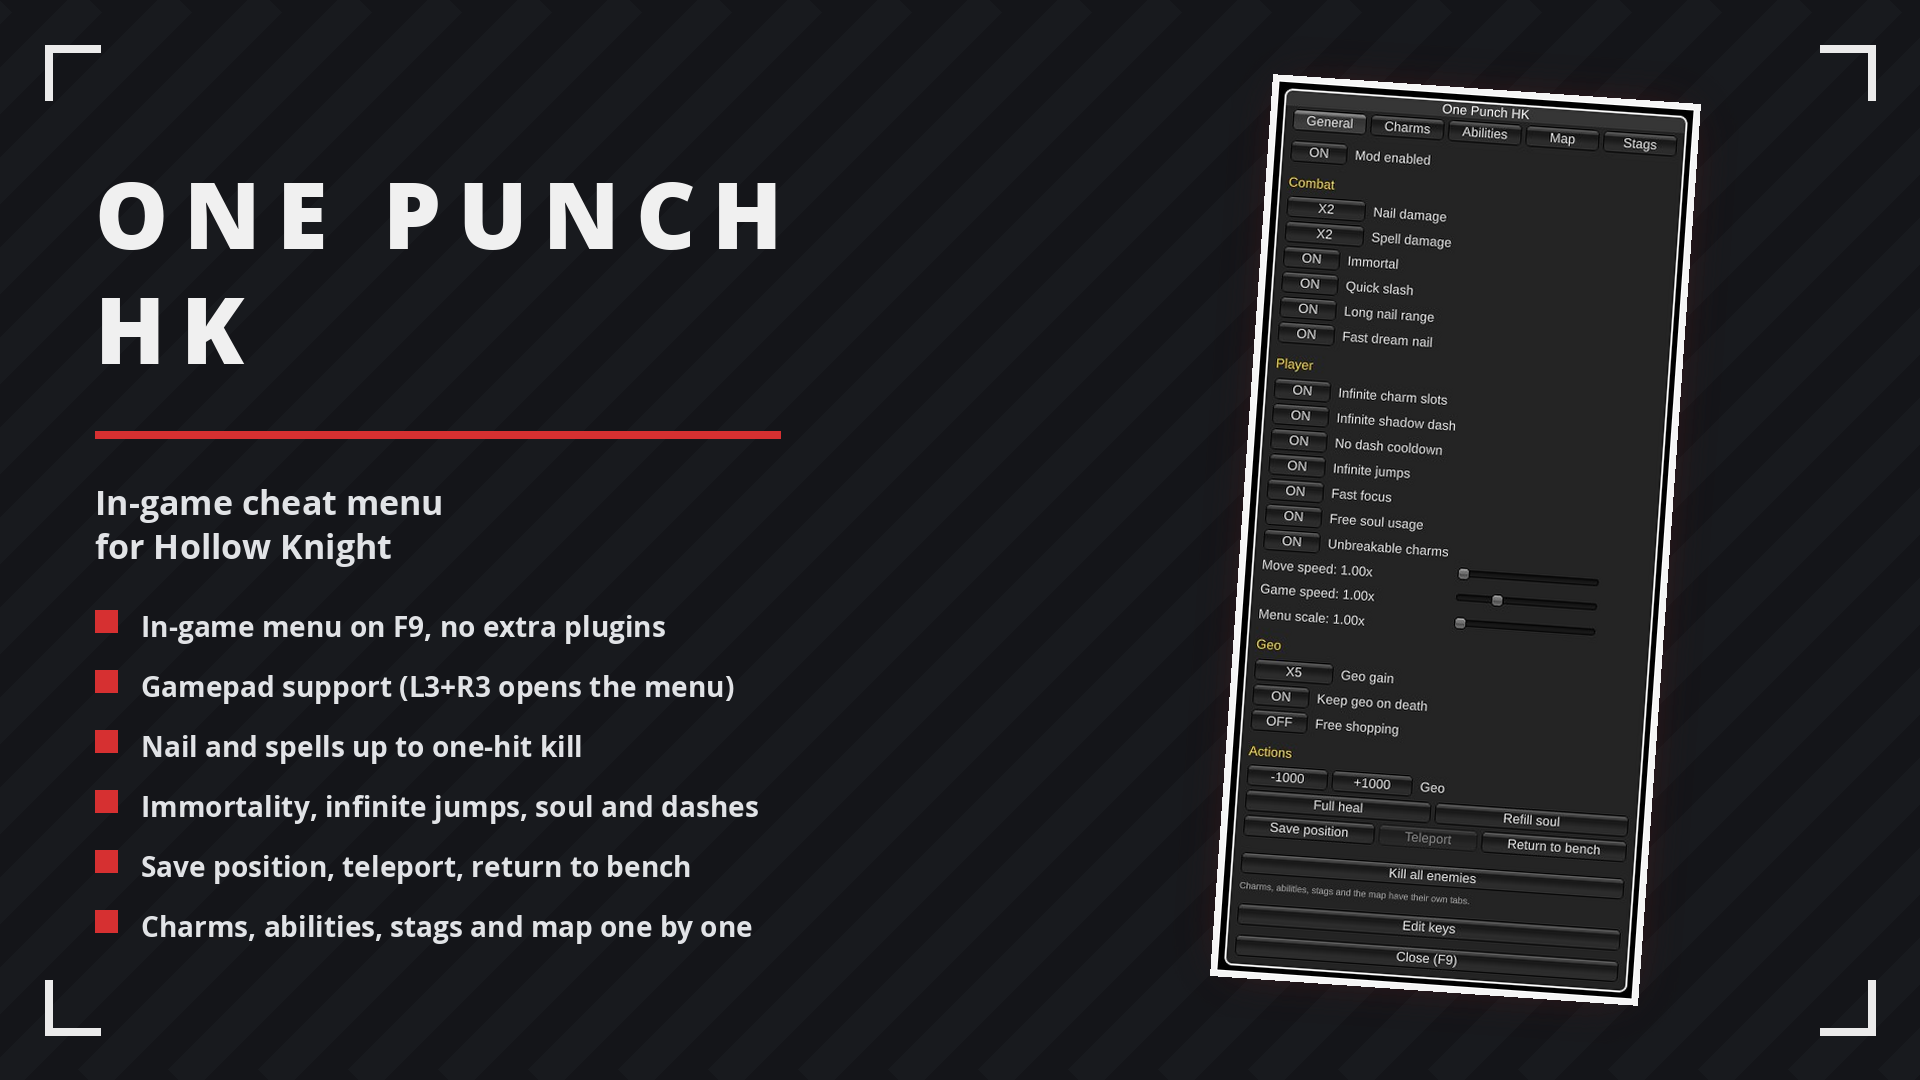
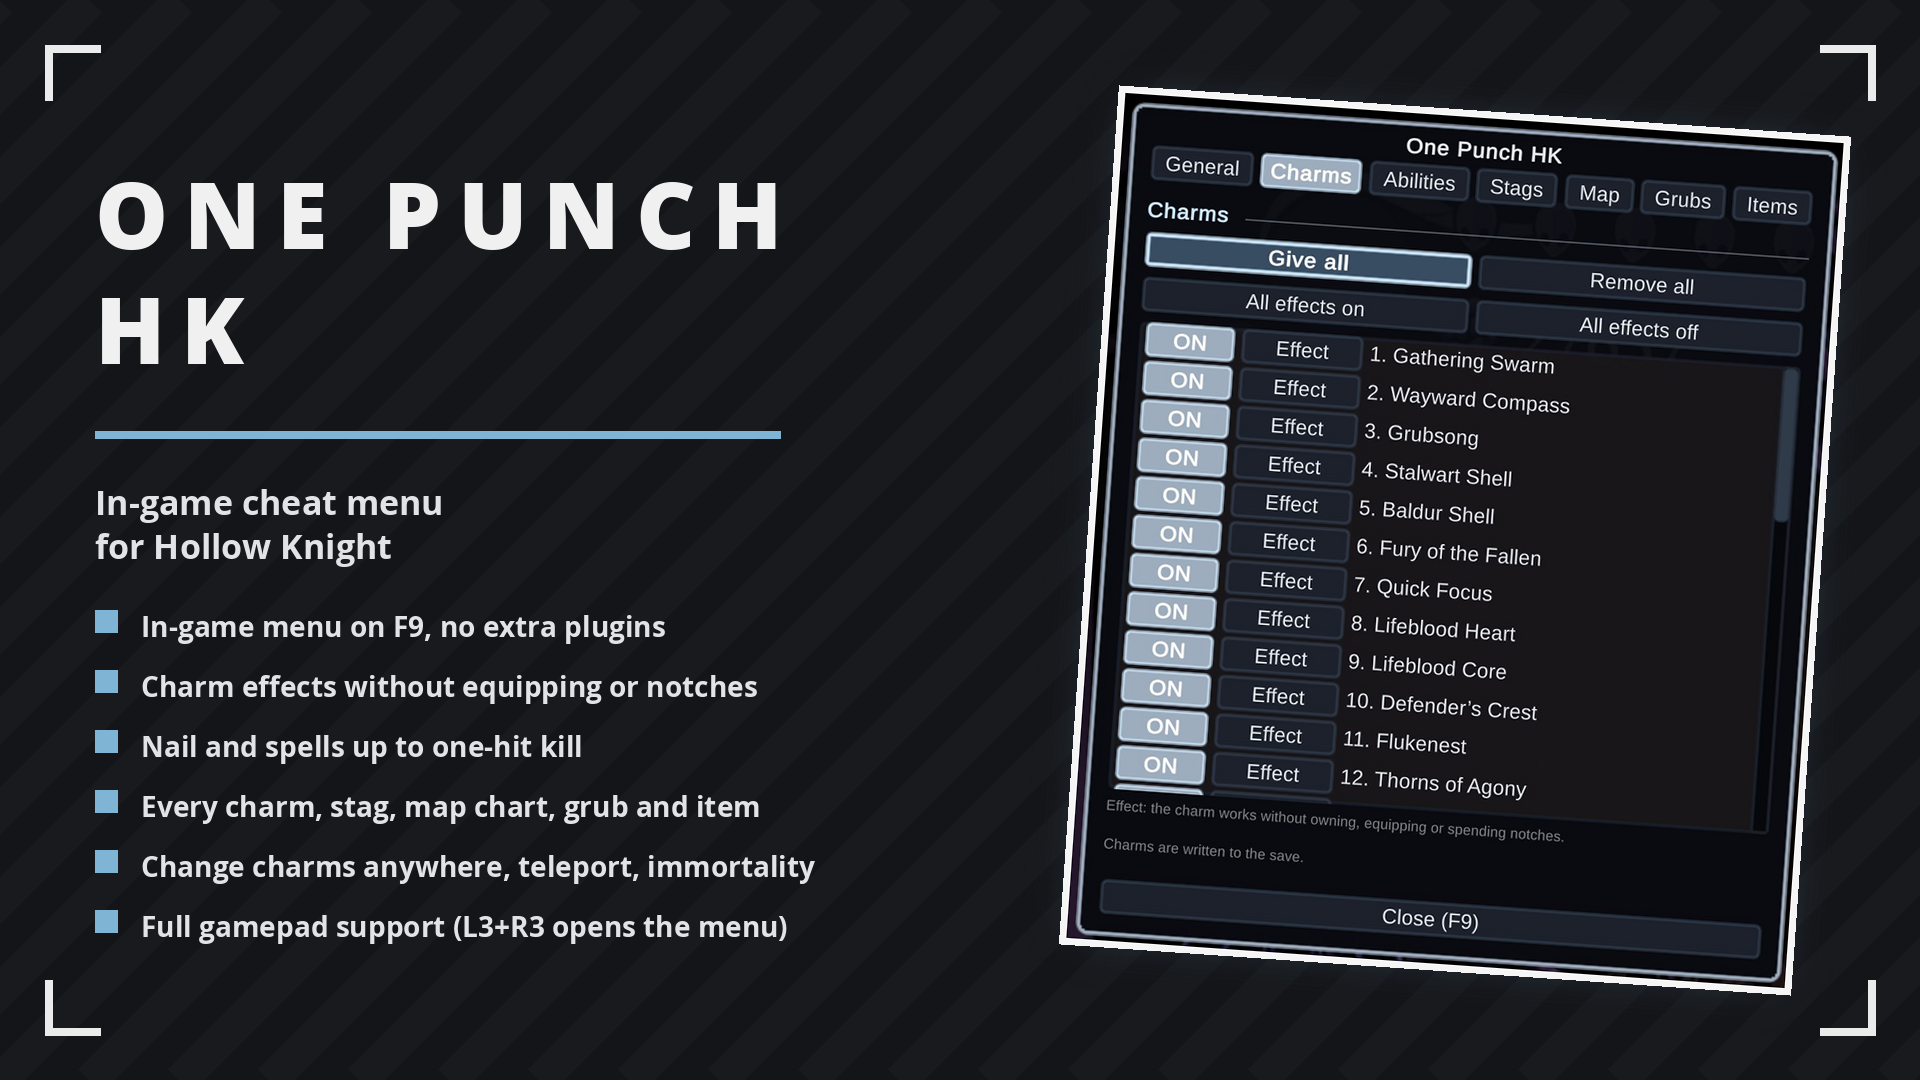
OnePunchHK 2.3.0: charm effects without equipping, new menu, grubs, items and map areas

diff --git a/Hollow Knight/OnePunchHK/README.md b/Hollow Knight/OnePunchHK/README.md
@@ -16,7 +16,10 @@ In-game cheat menu for Hollow Knight. Press F9 (or L3+R3 on a gamepad), toggle w
 - Geo multipliers, keep geo on death, free shopping, give geo
 - Full heal, refill soul, kill all enemies (with confirmation)
 - Save position, teleport back to it, return to the last bench
-- Tabs for charms, abilities, stags and map, every entry with its own switch
+- Charm effects without owning, equipping or notches (Effect switch per charm)
+- Change charms anywhere, no bench needed
+- Tabs for charms, abilities, stags, map, grubs and items, every entry with its own switch
+- Masks and soul vessels editors
 - Key rebinding inside the menu and a scale slider for big screens
 
 ## 🎮 Controls
@@ -30,11 +33,13 @@ In-game cheat menu for Hollow Knight. Press F9 (or L3+R3 on a gamepad), toggle w
 | LB / RB | change tab |
 
 ## 📸 Screenshots
-![menu](screenshots/01-menu.png)
-![charms](screenshots/02-charms.png)
-![abilities](screenshots/03-abilities.png)
-![map](screenshots/04-map.png)
-![stags](screenshots/05-stags.png)
+![menu](screenshots/01-menu-v2.png)
+![charms](screenshots/02-charms-v2.png)
+![abilities](screenshots/03-abilities-v2.png)
+![stags](screenshots/04-stags-v2.png)
+![map](screenshots/05-map-v2.png)
+![grubs](screenshots/06-grubs.png)
+![items](screenshots/07-items.png)
 
 ## 🌍 Translating
 Texts live in `I18n.cs`, one dictionary per language keyed by the English string. To add a
